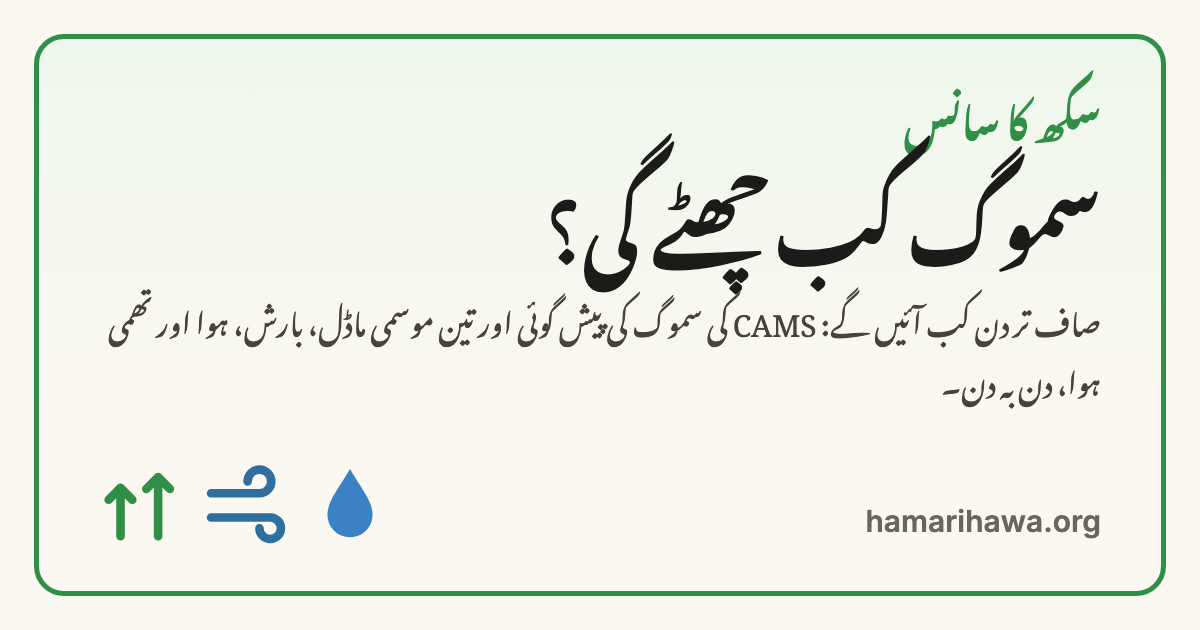
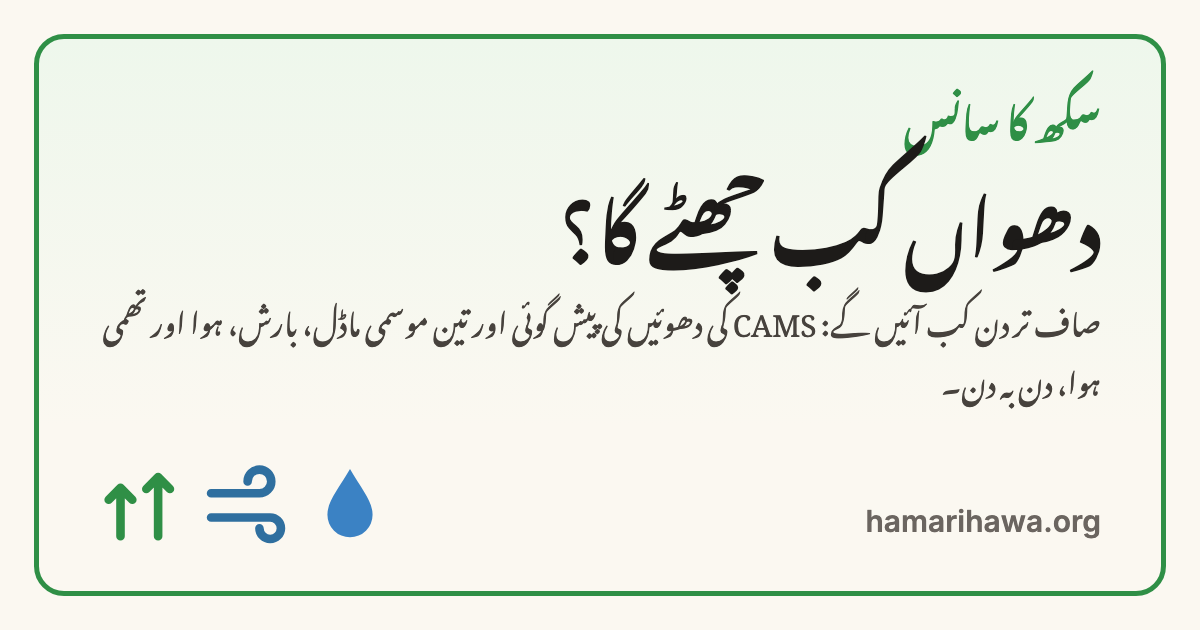
Breathe again: back to "smoke", and an outlook for every one of the 10 days
The switch to "smog" in 69ac2e6 was a misreading of a question; the widget's
wording is again as first shipped in dcc9490 (share-link previews say smoke
too; pictures redrawn, ?v=2 so cached previews refresh).

Past the ~4-day smoke forecast, every day now gets a weather-only outlook
(lighter, about the same, or still air so smoke likely builds up), drawn as
hatched bars at three fixed heights and said in one line grouped by runs of
days; later breaks after the first are listed. Also: "Tuesday"/"Thursday" no
longer lowercased after "and"/"to", and the square picture keeps three lines
so the strip fits.

diff --git a/site/public/breathe.js b/site/public/breathe.js
@@ -1,6 +1,6 @@
 // "Breathe again" on a city page (/air/<city>/; markup in site/src/citypage.js): when the air should next get
 // lighter, for the next 10 days. Smog cities rarely reach safe air, but rain, strong wind and a deep, breezy
-// afternoon mixing layer give them a day or two of lighter smog; this finds the next such break. It is all of PM2.5
+// afternoon mixing layer give them a day or two of lighter smoke; this finds the next such break. "Smoke" in the wording is the whole of CAMS's PM2.5
 // (fires, traffic, industry, kilns, dust), so it keeps working after the burning season, all winter.
 //
 // Two sources, both requested from the visitor's browser (the Worker never calls Open-Meteo):
@@ -31,59 +31,68 @@
     en: {
       wait: "Reading the weather models…", fail: "The forecast could not be loaded just now.",
       now: "Today", tomorrow: "Tomorrow", inDays: (d) => `In ${d} days`, maybe: (d) => (d === 1 ? "Maybe tomorrow" : `Maybe in ${d} days`), none: "Not in the next 10 days", light: "Already light",
-      today: "Today", tmw: "Tomorrow", and: (a, b) => `${a} and ${b.replace(/^T/, "t")}`, to: (a, b) => `${a} to ${b.replace(/^T/, "t")}`,
-      less: (p) => `about ${p}% less smog than the past 7 days`, half: "about half the smog of the past 7 days",
+      today: "Today", tmw: "Tomorrow", and: (a, b) => `${a} and ${b.replace(/^Tomorrow/, "tomorrow")}`, to: (a, b) => `${a} to ${b.replace(/^Tomorrow/, "tomorrow")}`,
+      less: (p) => `about ${p}% less smoke than the past 7 days`, half: "about half the smoke of the past 7 days",
       spanLess: (s, x) => `${s}: ${x}.`, spanMaybe: (s) => `${s} could bring lighter air.`,
-      why: { rain: (m, n, mm) => `Rain in ${m} of ${n} weather models, about ${mm} mm.`, wind: (k) => `Wind up to ${k} km/h.`, mix: "Breezy afternoons lift and spread the smog.", none: "The smog model expects it; the weather shows no single clear cause." },
-      back: (d) => `Smog starts building up again from ${d}.`, still: (d) => `Still air from ${d} may trap smog near the ground.`,
-      maybeNote: "This is past the smog forecast's 4 days, so it comes from the weather alone and is less certain.",
-      noneWhy: "No weather model shows rain or strong wind for the next 10 days.", lighterOnly: (d) => `${d} should be a little lighter, but not a real break.`, noneStill: (d) => `Still air from ${d} may trap smog near the ground.`,
-      lightTxt: (N) => `The smog model has kept ${N}'s air fairly light this past week.`,
-      legend: { brk: "break", lighter: "a little lighter", same: "about the same", worse: "smoggier", base: "past 7 days" },
-      airLbl: "Smog forecast", wxLbl: "Weather only",
+      why: { rain: (m, n, mm) => `Rain in ${m} of ${n} weather models, about ${mm} mm.`, wind: (k) => `Wind up to ${k} km/h.`, mix: "Breezy afternoons lift and spread the smoke.", none: "The smoke model expects it; the weather shows no single clear cause." },
+      back: (d) => `Smoke starts building up again from ${d}.`, still: (d) => `Still air from ${d} may trap smoke near the ground.`,
+      maybeNote: "This is past the smoke forecast's 4 days, so it comes from the weather alone and is less certain.",
+      noneWhy: "No weather model shows rain or strong wind for the next 10 days.", lighterOnly: (d) => `${d} should be a little lighter, but not a real break.`, noneStill: (d) => `Still air from ${d} may trap smoke near the ground.`,
+      lightTxt: (N) => `The smoke model has kept ${N}'s air fairly light this past week.`,
+      legend: { brk: "break", lighter: "a little lighter", same: "about the same", worse: "smokier", base: "past 7 days" },
+      airLbl: "Smoke forecast", wxLbl: "Weather only",
+      outlook: (parts) => `After that, from the weather alone: ${parts.join("; ")}.`, outlook0: (parts) => `Past the smoke forecast, from the weather alone: ${parts.join("; ")}.`, later: (list) => `Another possible break: ${list}.`,
+      ol: { build: (s) => `${s}, still air, so smoke likely builds up`, flat: (s) => `${s}, about the same`, maybe: (s, c) => `${s}, ${c} may bring lighter air` },
+      olCause: { rain: "rain", wind: "strong wind", mix: "breezy afternoons" }, olKey: "outlook from the weather",
       icon: { rain: "rain", wind: "strong wind", mix: "breezy, well mixed", still: "still air" },
       share: "Share picture", wa: "WhatsApp", copy: "Copy link", copied: "Link copied", saved: "Picture saved",
       q: (N) => `When can ${N} breathe again?`,
-      src: "Smog: fine particles (PM2.5) from every source, crop fires, traffic, industry, kilns and dust alike, in the Copernicus CAMS model via Open-Meteo, compared with its own past 7 days (it reads low in winter, so this shows the change, not the level). Weather: ECMWF, GFS and ICON models via Open-Meteo; mixing layer from GFS.",
-      imgSrc: "Smog (PM2.5): CAMS forecast vs its past 7 days. Weather: ECMWF, GFS, ICON.",
+      src: "Smoke: Copernicus CAMS model via Open-Meteo, compared with its own past 7 days (it reads low in winter, so this shows the change, not the level). Weather: ECMWF, GFS and ICON models via Open-Meteo; mixing layer from GFS.",
+      imgSrc: "Smoke: CAMS forecast vs its past 7 days. Weather: ECMWF, GFS, ICON.",
     },
     ur: {
       wait: "موسمی ماڈل دیکھے جا رہے ہیں…", fail: "پیش گوئی اس وقت نہیں مل سکی۔",
       now: "آج", tomorrow: "کل", inDays: (d) => `${d} دن میں`, maybe: (d) => (d === 1 ? "شاید کل" : `شاید ${d} دن میں`), none: "اگلے 10 دن میں نہیں", light: "ہوا پہلے ہی ہلکی",
       today: "آج", tmw: "کل", and: (a, b) => `${a} اور ${b}`, to: (a, b) => `${a} سے ${b} تک`,
-      less: (p) => `پچھلے 7 دنوں سے لگ بھگ ${p} فیصد کم سموگ`, half: "پچھلے 7 دنوں کے مقابلے میں لگ بھگ آدھی سموگ",
+      less: (p) => `پچھلے 7 دنوں سے لگ بھگ ${p} فیصد کم دھواں`, half: "پچھلے 7 دنوں کے مقابلے میں لگ بھگ آدھا دھواں",
       spanLess: (s, x) => `${s}: ${x}۔`, spanMaybe: (s) => `${s} کو ہوا کچھ ہلکی ہو سکتی ہے۔`,
-      why: { rain: (m, n, mm) => `${n} میں سے ${m} موسمی ماڈل بارش دکھا رہے ہیں، لگ بھگ ${mm} ملی میٹر۔`, wind: (k) => `ہوا ${k} کلومیٹر فی گھنٹہ تک چلے گی۔`, mix: "دوپہر کی ہوا سموگ کو اوپر اٹھا کر بکھیر دے گی۔", none: "سموگ کا ماڈل یہی بتاتا ہے، اگرچہ موسم میں کوئی ایک واضح وجہ نظر نہیں آتی۔" },
-      back: (d) => `${d} سے سموگ پھر بڑھنے لگے گی۔`, still: (d) => `${d} سے تھمی ہوا سموگ کو زمین کے قریب روک سکتی ہے۔`,
-      maybeNote: "یہ سموگ کی 4 دن کی پیش گوئی سے آگے ہے، اس لیے صرف موسم کی بنیاد پر ہے اور اتنا یقینی نہیں۔",
-      noneWhy: "اگلے 10 دنوں میں کسی موسمی ماڈل میں نہ بارش ہے نہ تیز ہوا۔", lighterOnly: (d) => `${d} ہوا کچھ ہلکی رہے گی، مگر کوئی خاص مہلت نہیں۔`, noneStill: (d) => `${d} سے تھمی ہوا سموگ کو زمین کے قریب روک سکتی ہے۔`,
-      lightTxt: (N) => `سموگ کے ماڈل کے مطابق پچھلے ہفتے ${N} کی ہوا کافی ہلکی رہی ہے۔`,
-      legend: { brk: "مہلت", lighter: "کچھ ہلکی", same: "تقریباً ویسی ہی", worse: "زیادہ سموگ", base: "پچھلے 7 دن" },
-      airLbl: "سموگ کی پیش گوئی", wxLbl: "صرف موسم",
+      why: { rain: (m, n, mm) => `${n} میں سے ${m} موسمی ماڈل بارش دکھا رہے ہیں، لگ بھگ ${mm} ملی میٹر۔`, wind: (k) => `ہوا ${k} کلومیٹر فی گھنٹہ تک چلے گی۔`, mix: "دوپہر کی ہوا دھوئیں کو اوپر اٹھا کر بکھیر دے گی۔", none: "دھوئیں کا ماڈل یہی بتاتا ہے، اگرچہ موسم میں کوئی ایک واضح وجہ نظر نہیں آتی۔" },
+      back: (d) => `${d} سے دھواں پھر بڑھنے لگے گا۔`, still: (d) => `${d} سے تھمی ہوا دھوئیں کو زمین کے قریب روک سکتی ہے۔`,
+      maybeNote: "یہ دھوئیں کی 4 دن کی پیش گوئی سے آگے ہے، اس لیے صرف موسم کی بنیاد پر ہے اور اتنا یقینی نہیں۔",
+      noneWhy: "اگلے 10 دنوں میں کسی موسمی ماڈل میں نہ بارش ہے نہ تیز ہوا۔", lighterOnly: (d) => `${d} ہوا کچھ ہلکی رہے گی، مگر کوئی خاص مہلت نہیں۔`, noneStill: (d) => `${d} سے تھمی ہوا دھوئیں کو زمین کے قریب روک سکتی ہے۔`,
+      lightTxt: (N) => `دھوئیں کے ماڈل کے مطابق پچھلے ہفتے ${N} کی ہوا کافی ہلکی رہی ہے۔`,
+      legend: { brk: "مہلت", lighter: "کچھ ہلکی", same: "تقریباً ویسی ہی", worse: "زیادہ دھواں", base: "پچھلے 7 دن" },
+      airLbl: "دھوئیں کی پیش گوئی", wxLbl: "صرف موسم",
+      outlook: (parts) => `اس کے بعد، صرف موسم کی بنیاد پر: ${parts.join("؛ ")}۔`, outlook0: (parts) => `دھوئیں کی پیش گوئی سے آگے، صرف موسم کی بنیاد پر: ${parts.join("؛ ")}۔`, later: (list) => `ایک اور ممکنہ مہلت: ${list}۔`,
+      ol: { build: (s) => `${s} تھمی ہوا، دھواں بڑھنے کا امکان`, flat: (s) => `${s} تقریباً ویسا ہی`, maybe: (s, c) => `${s} ${c} سے ہوا کچھ ہلکی ہو سکتی ہے` },
+      olCause: { rain: "بارش", wind: "تیز ہوا", mix: "ہوا دار دوپہر" }, olKey: "موسم کی بنیاد پر اندازہ",
       icon: { rain: "بارش", wind: "تیز ہوا", mix: "ہوا دار دوپہر", still: "تھمی ہوا" },
       share: "تصویر شیئر کریں", wa: "واٹس ایپ", copy: "لنک کاپی کریں", copied: "لنک کاپی ہو گیا", saved: "تصویر محفوظ ہو گئی",
       q: (N) => `${N} میں سکھ کا سانس کب ملے گا؟`,
-      src: "سموگ: ہوا کے باریک ذرات (PM2.5) ہر ذریعے سے، فصلوں کی آگ، ٹریفک، صنعت، بھٹے اور گرد سب، کوپرنیکس CAMS ماڈل میں، اوپن میٹیو کے ذریعے، اپنے ہی پچھلے 7 دنوں سے موازنہ (سردیوں میں یہ کم بتاتا ہے، اس لیے یہاں سطح نہیں، تبدیلی دکھائی گئی ہے)۔ موسم: ECMWF، GFS اور ICON ماڈل، اوپن میٹیو کے ذریعے؛ ہوا کی ملاوٹ کی تہہ GFS سے۔",
-      imgSrc: "سموگ (PM2.5): CAMS پیش گوئی، پچھلے 7 دنوں کے مقابلے میں۔ موسم: ECMWF، GFS، ICON۔",
+      src: "دھواں: کوپرنیکس CAMS ماڈل، اوپن میٹیو کے ذریعے، اپنے ہی پچھلے 7 دنوں سے موازنہ (سردیوں میں یہ کم بتاتا ہے، اس لیے یہاں سطح نہیں، تبدیلی دکھائی گئی ہے)۔ موسم: ECMWF، GFS اور ICON ماڈل، اوپن میٹیو کے ذریعے؛ ہوا کی ملاوٹ کی تہہ GFS سے۔",
+      imgSrc: "دھواں: CAMS پیش گوئی، پچھلے 7 دنوں کے مقابلے میں۔ موسم: ECMWF، GFS، ICON۔",
     },
     hi: {
       wait: "मौसम के मॉडल पढ़े जा रहे हैं…", fail: "अनुमान अभी नहीं मिल सका।",
       now: "आज", tomorrow: "कल", inDays: (d) => `${d} दिन में`, maybe: (d) => (d === 1 ? "शायद कल" : `शायद ${d} दिन में`), none: "अगले 10 दिन में नहीं", light: "हवा पहले से हल्की",
       today: "आज", tmw: "कल", and: (a, b) => `${a} और ${b}`, to: (a, b) => `${a} से ${b} तक`,
-      less: (p) => `पिछले 7 दिनों से लगभग ${p}% कम स्मॉग`, half: "पिछले 7 दिनों के मुक़ाबले लगभग आधा स्मॉग",
+      less: (p) => `पिछले 7 दिनों से लगभग ${p}% कम धुआँ`, half: "पिछले 7 दिनों के मुक़ाबले लगभग आधा धुआँ",
       spanLess: (s, x) => `${s}: ${x}।`, spanMaybe: (s) => `${s} को हवा कुछ हल्की हो सकती है।`,
-      why: { rain: (m, n, mm) => `${n} में से ${m} मौसम मॉडल बारिश दिखा रहे हैं, लगभग ${mm} मिमी।`, wind: (k) => `हवा ${k} किमी/घंटा तक चलेगी।`, mix: "दोपहर की हवा स्मॉग को ऊपर उठाकर बिखेर देगी।", none: "स्मॉग का मॉडल यही बताता है, हालाँकि मौसम में कोई एक साफ़ वजह नहीं दिखती।" },
-      back: (d) => `${d} से स्मॉग फिर बढ़ने लगेगा।`, still: (d) => `${d} से थमी हवा स्मॉग को ज़मीन के पास रोक सकती है।`,
-      maybeNote: "यह स्मॉग के 4 दिन के अनुमान से आगे है, इसलिए सिर्फ़ मौसम पर आधारित है और उतना पक्का नहीं।",
-      noneWhy: "अगले 10 दिनों में किसी मौसम मॉडल में न बारिश है न तेज़ हवा।", lighterOnly: (d) => `${d} हवा कुछ हल्की रहेगी, पर कोई ख़ास राहत नहीं।`, noneStill: (d) => `${d} से थमी हवा स्मॉग को ज़मीन के पास रोक सकती है।`,
-      lightTxt: (N) => `स्मॉग के मॉडल के मुताबिक़ पिछले हफ़्ते ${N} की हवा काफ़ी हल्की रही है।`,
-      legend: { brk: "राहत", lighter: "कुछ हल्की", same: "लगभग वैसी ही", worse: "ज़्यादा स्मॉग", base: "पिछले 7 दिन" },
-      airLbl: "स्मॉग का अनुमान", wxLbl: "सिर्फ़ मौसम",
+      why: { rain: (m, n, mm) => `${n} में से ${m} मौसम मॉडल बारिश दिखा रहे हैं, लगभग ${mm} मिमी।`, wind: (k) => `हवा ${k} किमी/घंटा तक चलेगी।`, mix: "दोपहर की हवा धुएँ को ऊपर उठाकर बिखेर देगी।", none: "धुएँ का मॉडल यही बताता है, हालाँकि मौसम में कोई एक साफ़ वजह नहीं दिखती।" },
+      back: (d) => `${d} से धुआँ फिर बढ़ने लगेगा।`, still: (d) => `${d} से थमी हवा धुएँ को ज़मीन के पास रोक सकती है।`,
+      maybeNote: "यह धुएँ के 4 दिन के अनुमान से आगे है, इसलिए सिर्फ़ मौसम पर आधारित है और उतना पक्का नहीं।",
+      noneWhy: "अगले 10 दिनों में किसी मौसम मॉडल में न बारिश है न तेज़ हवा।", lighterOnly: (d) => `${d} हवा कुछ हल्की रहेगी, पर कोई ख़ास राहत नहीं।`, noneStill: (d) => `${d} से थमी हवा धुएँ को ज़मीन के पास रोक सकती है।`,
+      lightTxt: (N) => `धुएँ के मॉडल के मुताबिक़ पिछले हफ़्ते ${N} की हवा काफ़ी हल्की रही है।`,
+      legend: { brk: "राहत", lighter: "कुछ हल्की", same: "लगभग वैसी ही", worse: "ज़्यादा धुआँ", base: "पिछले 7 दिन" },
+      airLbl: "धुएँ का अनुमान", wxLbl: "सिर्फ़ मौसम",
+      outlook: (parts) => `उसके बाद, सिर्फ़ मौसम के आधार पर: ${parts.join("; ")}।`, outlook0: (parts) => `धुएँ के अनुमान से आगे, सिर्फ़ मौसम के आधार पर: ${parts.join("; ")}।`, later: (list) => `एक और संभावित राहत: ${list}।`,
+      ol: { build: (s) => `${s} थमी हवा, धुआँ बढ़ने की आशंका`, flat: (s) => `${s} लगभग वैसा ही`, maybe: (s, c) => `${s} ${c} से हवा कुछ हल्की हो सकती है` },
+      olCause: { rain: "बारिश", wind: "तेज़ हवा", mix: "हवादार दोपहर" }, olKey: "मौसम के आधार पर अंदाज़ा",
       icon: { rain: "बारिश", wind: "तेज़ हवा", mix: "हवादार दोपहर", still: "थमी हवा" },
       share: "तस्वीर शेयर करें", wa: "व्हाट्सऐप", copy: "लिंक कॉपी करें", copied: "लिंक कॉपी हो गया", saved: "तस्वीर सेव हो गई",
       q: (N) => `${N} में चैन की साँस कब मिलेगी?`,
-      src: "स्मॉग: हवा के बारीक कण (PM2.5) हर स्रोत से, फ़सलों की आग, ट्रैफ़िक, उद्योग, भट्ठे और धूल सब, कोपरनिकस CAMS मॉडल में, ओपन-मेटियो से, अपने ही पिछले 7 दिनों से तुलना (सर्दियों में यह कम बताता है, इसलिए यहाँ स्तर नहीं, बदलाव दिखाया गया है)। मौसम: ECMWF, GFS और ICON मॉडल, ओपन-मेटियो से; मिक्सिंग लेयर GFS से।",
-      imgSrc: "स्मॉग (PM2.5): CAMS अनुमान, पिछले 7 दिनों के मुक़ाबले। मौसम: ECMWF, GFS, ICON।",
+      src: "धुआँ: कोपरनिकस CAMS मॉडल, ओपन-मेटियो से, अपने ही पिछले 7 दिनों से तुलना (सर्दियों में यह कम बताता है, इसलिए यहाँ स्तर नहीं, बदलाव दिखाया गया है)। मौसम: ECMWF, GFS और ICON मॉडल, ओपन-मेटियो से; मिक्सिंग लेयर GFS से।",
+      imgSrc: "धुआँ: CAMS अनुमान, पिछले 7 दिनों के मुक़ाबले। मौसम: ECMWF, GFS, ICON।",
     },
   };
 
@@ -94,7 +103,9 @@
     still: '<g fill="none" stroke="#9a8f80" stroke-width="1.8" stroke-linecap="round"><path d="M2 5h12M3.5 8.5h9M2 12h12"/></g>',
   };
   const svg = (k, s = 15) => `<svg viewBox="0 0 16 16" width="${s}" height="${s}" aria-hidden="true">${ICON[k]}</svg>`;
-  const COLOR = { brk: GREEN, lighter: "#8cc084", same: "#c9a86a", worse: "#d0594c" };
+  const COLOR = { brk: GREEN, lighter: "#8cc084", same: "#c9a86a", worse: "#d0594c", maybe: GREEN, flat: "#c9a86a", build: "#d0594c" };
+  // Weather-only days are drawn at three fixed heights (an outlook, not a number): lighter, about the same, building.
+  const WXH = { maybe: 0.7, flat: 1, build: 1.3 };
   const esc = (s) => String(s ?? "").replace(/[&<>"]/g, (c) => ({ "&": "&amp;", "<": "&lt;", ">": "&gt;", '"': "&quot;" })[c]);
   const mean = (v) => (v.length ? v.reduce((s, x) => s + x, 0) / v.length : null);
   const median = (v) => { if (!v.length) return null; const s = [...v].sort((a, b) => a - b), m = s.length >> 1; return s.length % 2 ? s[m] : (s[m - 1] + s[m]) / 2; };
@@ -156,7 +167,8 @@
       const r = p == null ? null : p / base;
       let st;
       if (r != null) st = r <= 0.7 ? "brk" : r <= 0.87 ? "lighter" : r < 1.15 ? "same" : "worse";
-      else st = wx.cause && wx.cause !== "still" ? "maybe" : wx.cause === "still" ? "still" : "";
+      // Past the smoke forecast, every day still gets an outlook from the weather: lighter, about the same or building up.
+      else st = wx.cause && wx.cause !== "still" ? "maybe" : wx.cause === "still" ? "build" : "flat";
       days.push({ k, i, r, st, air: r != null, wx });
     }
     // The first break: a smoke-forecast break, or past its horizon a weather-only one; then the run of such days.
@@ -167,7 +179,12 @@
     const end = run.length ? run[run.length - 1].i : -1;
     const back = run.length && run[0].air ? days.find((d) => d.i > end && d.air && d.st !== "brk") : null;
     const stillDay = days.find((d) => d.i > end && d.wx.cause === "still");
-    return { days, base, run, back, stillDay, light: base < 25 && s < 0 };
+    // Every break in the 10 days, not only the first; and the weather-only days grouped into runs of one outlook.
+    const runs = [];
+    days.forEach((d) => { if (!isBrk(d)) return; const r = runs[runs.length - 1]; if (r && r[r.length - 1].i === d.i - 1 && r[0].air === d.air) r.push(d); else runs.push([d]); });
+    const outlook = [];
+    days.filter((d) => !d.air).forEach((d) => { const g = outlook[outlook.length - 1]; if (g && g[0].st === d.st && g[0].wx.cause === d.wx.cause) g.push(d); else outlook.push([d]); });
+    return { days, base, run, runs, outlook, back, stillDay, light: base < 25 && s < 0 };
   }
 
   // ---------- The widget ----------
@@ -183,6 +200,12 @@
 
   function answer(f, l, N) {
     const t = T[l], { name, nf } = names(l), run = f.run;
+    const spanOf = (g) => (g.length === 1 ? name(g[0]) : g.length === 2 ? t.and(name(g[0]), name(g[1])) : t.to(name(g[0]), name(g[g.length - 1])));
+    // The weather-only days in words, leaving out the ones the headline already covers.
+    const skip = new Set(run[0]?.air === false ? run.map((d) => d.i) : []);
+    const parts = f.outlook.filter((g) => !skip.has(g[0].i)).map((g) => g[0].st === "maybe" ? t.ol.maybe(spanOf(g), t.olCause[g[0].wx.cause]) : t.ol[g[0].st](spanOf(g)));
+    const outlook = parts.length ? (run.length && !f.light ? t.outlook : t.outlook0)(parts) : "";
+    const later = f.runs.slice(1);
     const out = { big: "", tone: "none", span: "", lines: [], note: "" };
     if (f.light) { out.big = t.light; out.tone = "brk"; out.lines.push(t.lightTxt(N)); return out; }
     if (!run.length) {
@@ -190,7 +213,8 @@
       const lt = f.days.find((d) => d.st === "lighter");
       if (lt) out.lines.push(t.lighterOnly(name(lt)));
       out.lines.push(t.noneWhy);
-      if (f.stillDay) out.lines.push(t.noneStill(name(f.stillDay)));
+      if (outlook) out.lines.push(outlook);
+      else if (f.stillDay) out.lines.push(t.noneStill(name(f.stillDay)));
       return out;
     }
     const a = run[0], z = run[run.length - 1];
@@ -211,7 +235,10 @@
     const c = run.map((d) => d.wx).find((x) => x.cause && x.cause !== "still");
     out.lines.push(!c ? t.why.none : c.cause === "rain" ? t.why.rain(nf.format(c.rainM), nf.format(c.rainN), nf.format(c.mm)) : c.cause === "wind" ? t.why.wind(nf.format(c.wind)) : t.why.mix);
     if (f.back) out.lines.push(t.back(name(f.back)));
-    else if (f.stillDay) out.lines.push(t.still(name(f.stillDay)));
+    // The days after: the weather outlook (when the first break is in the smoke forecast), or any later breaks.
+    if (outlook) out.lines.push(a.air ? outlook : t.outlook0(parts));
+    else if (later.length) out.lines.push(t.later(later.map(spanOf).join(", ")));
+    else if (!f.back && f.stillDay) out.lines.push(t.still(name(f.stillDay)));
     return out;
   }
 
@@ -222,10 +249,10 @@
     const nAir = f.days.filter((d) => d.air).length;
     const cols = f.days.map((d) => {
       const brk = d.st === "brk" || d.st === "maybe";
-      const lbl = d.air ? t.legend[d.st] : d.st === "maybe" ? t.legend.brk + "?" : d.wx.cause ? t.icon[d.wx.cause] : "";
+      const lbl = d.air ? t.legend[d.st] : d.st === "maybe" ? t.legend.brk + "?" : d.wx.cause ? t.icon[d.wx.cause] : t.legend.same + "?";
       const bar = d.air
         ? `<i class="bar" style="height:${Math.max(4, Math.round((Math.min(d.r, MAXR) / MAXR) * H))}px;background:${COLOR[d.st]}"></i>`
-        : d.st === "maybe" ? `<i class="bar maybe"></i>` : "";
+        : d.st in WXH ? `<i class="bar wx" style="height:${Math.round((WXH[d.st] / MAXR) * H)}px;--c:${COLOR[d.st]}"></i>` : "";
       return `<div class="cp-br-d${brk ? " brk" : ""}${d.air ? " air" : ""}" title="${esc(`${wd(d)} ${dm(d)}${lbl ? `: ${lbl}` : ""}`)}">` +
         `<span class="wd">${d.i === 0 ? `<span class="full">${t.today}</span><span class="short">${wdShort(d)}</span>` : wd(d)}</span><span class="dm">${dm(d)}</span>` +
         `<span class="plot" style="--b:${baseY}px">${bar}</span>` +
@@ -234,7 +261,7 @@
     const used = [...new Set(f.days.map((d) => d.wx.cause).filter(Boolean))];
     const stUsed = ["brk", "lighter", "same", "worse"].filter((s) => f.days.some((d) => d.air && d.st === s));
     // The share link has its own path, so its preview says the same as this (see breatheMeta in citypage.js):
-    // only numbers go in it, the start day, days, per cent less smog, and smog forecast or weather only.
+    // only numbers go in it, the start day, days, per cent less smoke, and smoke forecast or weather only.
     const run = f.run, qs = new URLSearchParams();
     if (f.light || !run.length) { qs.set("k", f.light ? "l" : "x"); qs.set("d", f.days[0].k); }
     else { qs.set("d", run[0].k); qs.set("n", run.length); if (run[0].air) qs.set("p", ans.p); qs.set("k", run[0].air ? "a" : "w"); }
@@ -247,7 +274,7 @@
       `<div class="cp-br-strip" style="--na:${nAir}">${cols}</div>` +
       `<div class="cp-br-lbl"><span style="grid-column:1 / span ${nAir}">${t.airLbl}</span><span style="grid-column:${nAir + 1} / -1">${t.wxLbl}</span></div>` +
       `<p class="cp-br-key">${stUsed.map((s) => `<span><i style="background:${COLOR[s]}"></i>${t.legend[s]}</span>`).join("")}` +
-      `<span><i class="base"></i>${t.legend.base}</span>${used.map((x) => `<span>${svg(x, 13)} ${t.icon[x]}</span>`).join("")}</p>` +
+      `<span><i class="base"></i>${t.legend.base}</span>${nAir < DAYS ? `<span><i class="wxk"></i>${t.olKey}</span>` : ""}${used.map((x) => `<span>${svg(x, 13)} ${t.icon[x]}</span>`).join("")}</p>` +
       `<div class="cp-share"><button type="button" class="wa" data-br-share>${t.share}</button>` +
       `<a href="https://wa.me/?text=${encodeURIComponent(`${shareTxt} ${url}`)}" target="_blank" rel="noopener">${t.wa}</a>` +
       `<button type="button" data-copy="${esc(url)}" data-done="${esc(t.copied)}">${t.copy}</button></div>` +
@@ -289,9 +316,10 @@
     y = wrap(t.q(N), `700 SZpx ${fam}`, 50, y + 20, "#1d1b19");
     const col = ans.tone === "brk" ? GREEN : ans.tone === "maybe" ? "#5d8f5a" : "#8a8580";
     y = wrap(ans.big, `700 SZpx ${fam}`, rtl ? 104 : 130, y + (rtl ? 70 : 100), col) - (rtl ? 60 : 40);
-    for (const [i, s] of ans.lines.entries()) y = wrap(s, `${i === 0 ? 600 : 400} SZpx ${body}`, i === 0 ? 34 : 29, y + 6, i === 0 ? "#1d1b19" : "#47423d");
+    // The picture keeps the answer, the reason and what comes next; the 10-day outlook is in the strip.
+    for (const [i, s] of ans.lines.slice(0, 3).entries()) y = wrap(s, `${i === 0 ? 600 : 400} SZpx ${body}`, i === 0 ? 34 : 29, y + 6, i === 0 ? "#1d1b19" : "#47423d");
     // The strip, drawn in reading order.
-    const top = Math.max(y + 30, rtl ? 660 : 690), H = 150, gap = 10, cw = (S - 2 * P - gap * (DAYS - 1)) / DAYS, MAXR = 1.6;
+    const top = Math.min(S - (rtl ? 330 : 300), Math.max(y + 30, rtl ? 660 : 690)), H = 150, gap = 10, cw = (S - 2 * P - gap * (DAYS - 1)) / DAYS, MAXR = 1.6;
     const { wd, dm } = names(l);
     f.days.forEach((d, j) => {
       const x = rtl ? S - P - (j + 1) * cw - j * gap : P + j * (cw + gap);
@@ -299,8 +327,10 @@
       if (d.air) {
         const h = Math.max(6, (Math.min(d.r, MAXR) / MAXR) * H);
         g.fillStyle = COLOR[d.st]; g.beginPath(); g.roundRect(x + 6, top + H - h, cw - 12, h, 6); g.fill();
-      } else if (d.st === "maybe") {
-        g.strokeStyle = GREEN; g.setLineDash([8, 6]); g.lineWidth = 3; g.beginPath(); g.roundRect(x + 8, top + H * 0.45, cw - 16, H * 0.55, 6); g.stroke(); g.setLineDash([]);
+      } else if (d.st in WXH) {
+        const h = (WXH[d.st] / MAXR) * H;
+        g.globalAlpha = 0.35; g.fillStyle = COLOR[d.st]; g.beginPath(); g.roundRect(x + 8, top + H - h, cw - 16, h, 6); g.fill(); g.globalAlpha = 1;
+        g.strokeStyle = COLOR[d.st]; g.setLineDash([8, 6]); g.lineWidth = 3; g.beginPath(); g.roundRect(x + 8, top + H - h, cw - 16, h, 6); g.stroke(); g.setLineDash([]);
       }
       g.textAlign = "center"; g.fillStyle = d.i === 0 ? "#1d1b19" : "#5a5550";
       g.font = `600 ${rtl ? 22 : 24}px ${body}`; g.fillText(wd(d), x + cw / 2, top + H + (rtl ? 48 : 40));

diff --git a/site/src/citypage.js b/site/src/citypage.js
@@ -260,7 +260,7 @@ export const CITY_STYLE = `<style>
   .cp-br-d .plot { position: relative; width: 100%; height: 80px; display: flex; align-items: flex-end; justify-content: center; margin: 3px 0; }
   .cp-br-d.air .plot::after { content: ""; position: absolute; inset-inline: 0; bottom: var(--b); border-top: 1.5px dashed var(--ink-2); }
   .cp-br-d .bar { display: block; width: 62%; max-width: 34px; border-radius: 4px 4px 2px 2px; }
-  .cp-br-d .bar.maybe { height: 44px; border: 2px dashed #2f8f46; background: transparent; }
+  .cp-br-d .bar.wx { border: 1.5px dashed var(--c); background: repeating-linear-gradient(135deg, color-mix(in srgb, var(--c) 45%, transparent) 0 3px, transparent 3px 6px); }
   .cp-br-d .wx { height: 16px; }
   .cp-br-lbl { font-size: 11.5px; color: var(--ink-3); margin-top: -4px; }
   .cp-br-lbl span { border-top: 1px solid var(--hair); padding-top: 2px; white-space: nowrap; overflow: hidden; text-overflow: ellipsis; }
@@ -268,6 +268,7 @@ export const CITY_STYLE = `<style>
   .doc p.cp-br-key { display: flex; flex-wrap: wrap; gap: 4px 12px; font-size: 12.5px; color: var(--ink-3); margin: 0; }
   .cp-br-key span { display: inline-flex; align-items: center; gap: 5px; }
   .cp-br-key i { width: 11px; height: 11px; border-radius: 3px; display: inline-block; }
+  .cp-br-key i.wxk { border: 1.5px dashed var(--ink-3); background: repeating-linear-gradient(135deg, #cfc8bb 0 3px, transparent 3px 6px); }
   .cp-br-key i.base { width: 16px; height: 0; border-top: 1.5px dashed var(--ink-2); border-radius: 0; }
   .cp-br .cp-share button.wa { background: #1f9d55; border-color: #1f9d55; color: #fff; }
   .doc .cp-br-src { font-size: 12px; line-height: 1.4; color: var(--ink-3); margin: 0; }
@@ -635,22 +636,22 @@ const MON = {
 const BT = {
   en: { q: (N) => `When can ${N} breathe again?`, today: "Today", tmw: "tomorrow", Tmw: "Tomorrow",
     and: (a, b) => `${a} and ${b}`, to: (a, b) => `${a} to ${b}`, day: (w, d, m) => `${w} ${d} ${m}`,
-    less: (s, p) => `${s}: ${p >= 45 && p <= 55 ? "about half the smog of the past 7 days" : `about ${p}% less smog than the past 7 days`}.`,
+    less: (s, p) => `${s}: ${p >= 45 && p <= 55 ? "about half the smoke of the past 7 days" : `about ${p}% less smoke than the past 7 days`}.`,
     maybe: (s) => `${s} could bring lighter air.`, none: "Not in the next 10 days.", light: "The air has been fairly light this past week.",
-    desc: "The next days of lighter smog, from the CAMS PM2.5 forecast and three weather models (ECMWF, GFS, ICON): rain, wind and still air, day by day.",
-    alt: "Breathe again: when the smog should next lift" },
+    desc: "The next days of lighter smoke, from the CAMS smoke forecast and three weather models (ECMWF, GFS, ICON): rain, wind and still air, day by day.",
+    alt: "Breathe again: when the smoke should next lift" },
   ur: { q: (N) => `${N} میں سکھ کا سانس کب ملے گا؟`, today: "آج", tmw: "کل", Tmw: "کل",
     and: (a, b) => `${a} اور ${b}`, to: (a, b) => `${a} سے ${b} تک`, day: (w, d, m) => `${w}، ${d} ${m}`,
-    less: (s, p) => `${s}: ${p >= 45 && p <= 55 ? "پچھلے 7 دنوں کے مقابلے میں لگ بھگ آدھی سموگ" : `پچھلے 7 دنوں سے لگ بھگ ${p} فیصد کم سموگ`}۔`,
+    less: (s, p) => `${s}: ${p >= 45 && p <= 55 ? "پچھلے 7 دنوں کے مقابلے میں لگ بھگ آدھا دھواں" : `پچھلے 7 دنوں سے لگ بھگ ${p} فیصد کم دھواں`}۔`,
     maybe: (s) => `${s} کو ہوا کچھ ہلکی ہو سکتی ہے۔`, none: "اگلے 10 دن میں نہیں۔", light: "پچھلے ہفتے ہوا کافی ہلکی رہی ہے۔",
-    desc: "سموگ کب کم ہو گی: CAMS کی PM2.5 کی پیش گوئی اور تین موسمی ماڈل (ECMWF، GFS، ICON)، بارش، ہوا اور تھمی ہوا، دن بہ دن۔",
-    alt: "سکھ کا سانس: سموگ کب چھٹے گی" },
+    desc: "دھواں کب کم ہو گا: CAMS کی دھوئیں کی پیش گوئی اور تین موسمی ماڈل (ECMWF، GFS، ICON)، بارش، ہوا اور تھمی ہوا، دن بہ دن۔",
+    alt: "سکھ کا سانس: دھواں کب چھٹے گا" },
   hi: { q: (N) => `${N} में चैन की साँस कब मिलेगी?`, today: "आज", tmw: "कल", Tmw: "कल",
     and: (a, b) => `${a} और ${b}`, to: (a, b) => `${a} से ${b} तक`, day: (w, d, m) => `${w}, ${d} ${m}`,
-    less: (s, p) => `${s}: ${p >= 45 && p <= 55 ? "पिछले 7 दिनों के मुक़ाबले लगभग आधा स्मॉग" : `पिछले 7 दिनों से लगभग ${p}% कम स्मॉग`}।`,
+    less: (s, p) => `${s}: ${p >= 45 && p <= 55 ? "पिछले 7 दिनों के मुक़ाबले लगभग आधा धुआँ" : `पिछले 7 दिनों से लगभग ${p}% कम धुआँ`}।`,
     maybe: (s) => `${s} को हवा कुछ हल्की हो सकती है।`, none: "अगले 10 दिन में नहीं।", light: "पिछले हफ़्ते हवा काफ़ी हल्की रही है।",
-    desc: "स्मॉग कब छँटेगा: CAMS का PM2.5 अनुमान और तीन मौसम मॉडल (ECMWF, GFS, ICON), बारिश, हवा और थमी हवा, दिन-ब-दिन।",
-    alt: "चैन की साँस: स्मॉग कब छँटेगा" },
+    desc: "धुआँ कब छँटेगा: CAMS का धुएँ का अनुमान और तीन मौसम मॉडल (ECMWF, GFS, ICON), बारिश, हवा और थमी हवा, दिन-ब-दिन।",
+    alt: "चैन की साँस: धुआँ कब छँटेगा" },
 };
 const ZONE_MIN = { PK: 300, IN: 330 };
 
@@ -680,5 +681,5 @@ export function breatheMeta(c, q, now = Date.now()) {
   }
   // A "none" or "light" link only holds for the day it was made.
   if ((k === "x" || k === "l") && d && dayN(d) !== 0) line = "";
-  return { l, title: line ? `${t.q(N)} ${line}` : t.q(N), desc: t.desc, alt: t.alt, image: `${SITE}/og/breathe-${l}.png` };
+  return { l, title: line ? `${t.q(N)} ${line}` : t.q(N), desc: t.desc, alt: t.alt, image: `${SITE}/og/breathe-${l}.png?v=2` };
 }

diff --git a/site/src/air.js b/site/src/air.js
@@ -292,7 +292,7 @@ function cityPage(c, data, wind, extra = {}) {
   // Its link preview is this city's own map (scripts/build-og-live.py, served by worker.js).
   return render({ path: `/air/${c.id}/`, title: T.en.title(N), desc: T.en.desc(N, descTxt), body, jsonld,
     ogImage: ogUrl(c.id), ogAlt: `${N}: the last 24 hours of fires within 250 km and the wind`,
-    head: STYLE + AIR_STYLE + CITY_STYLE + LEAFLET_CSS, scripts: '<script src="/city-air.js?v=6" defer></script>\n<script src="/breathe.js?v=2" defer></script>\n' + LEAFLET_JS + NEAR_JS + SHARE_JS + CITY_JS });
+    head: STYLE + AIR_STYLE + CITY_STYLE + LEAFLET_CSS, scripts: '<script src="/city-air.js?v=6" defer></script>\n<script src="/breathe.js?v=4" defer></script>\n' + LEAFLET_JS + NEAR_JS + SHARE_JS + CITY_JS });
 }
 
 function indexPage(data, wind) {
